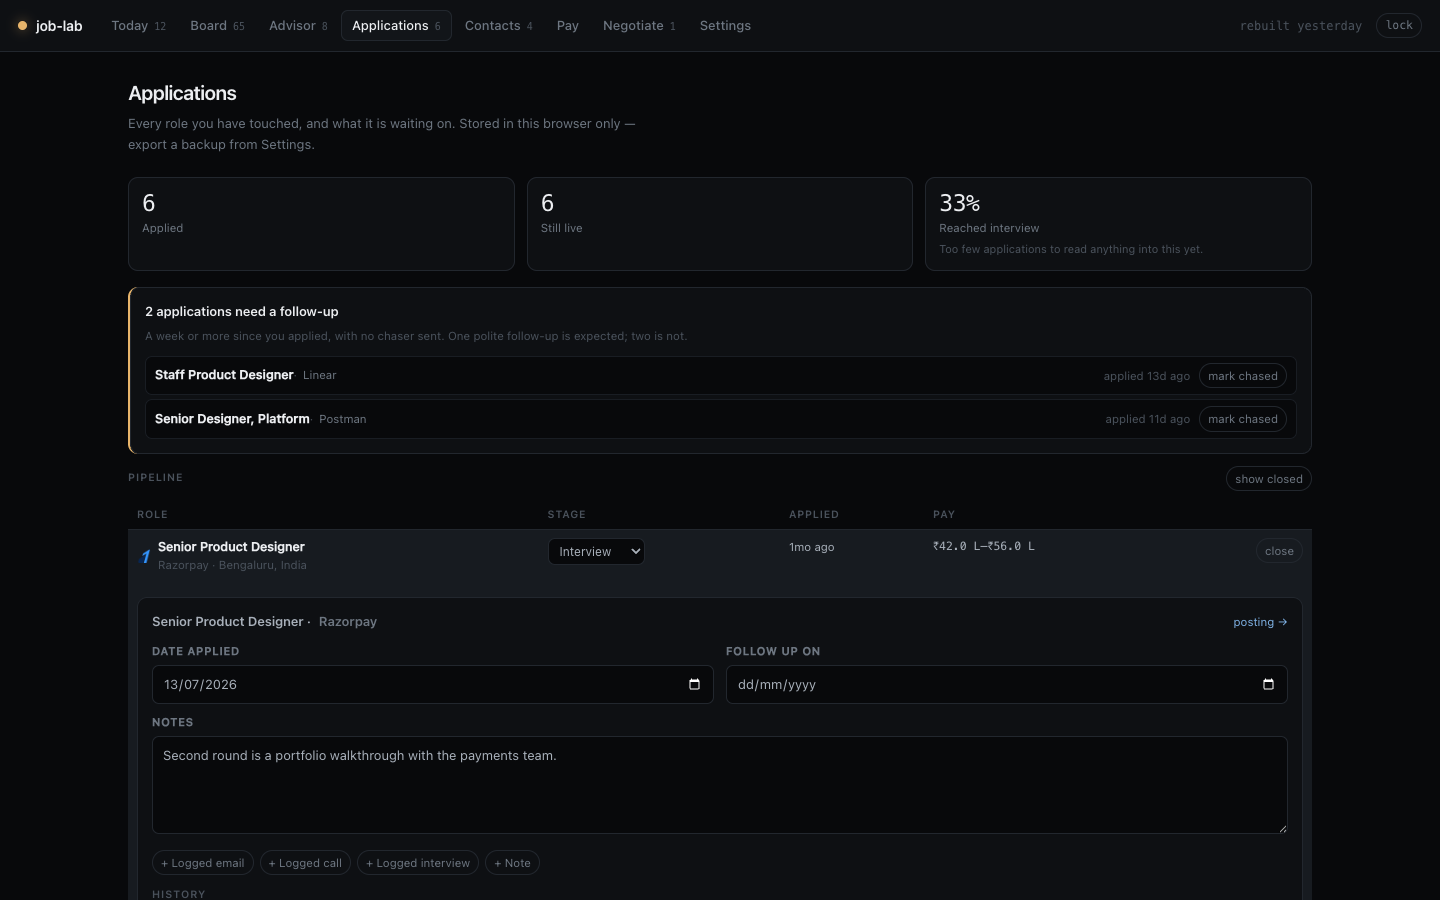
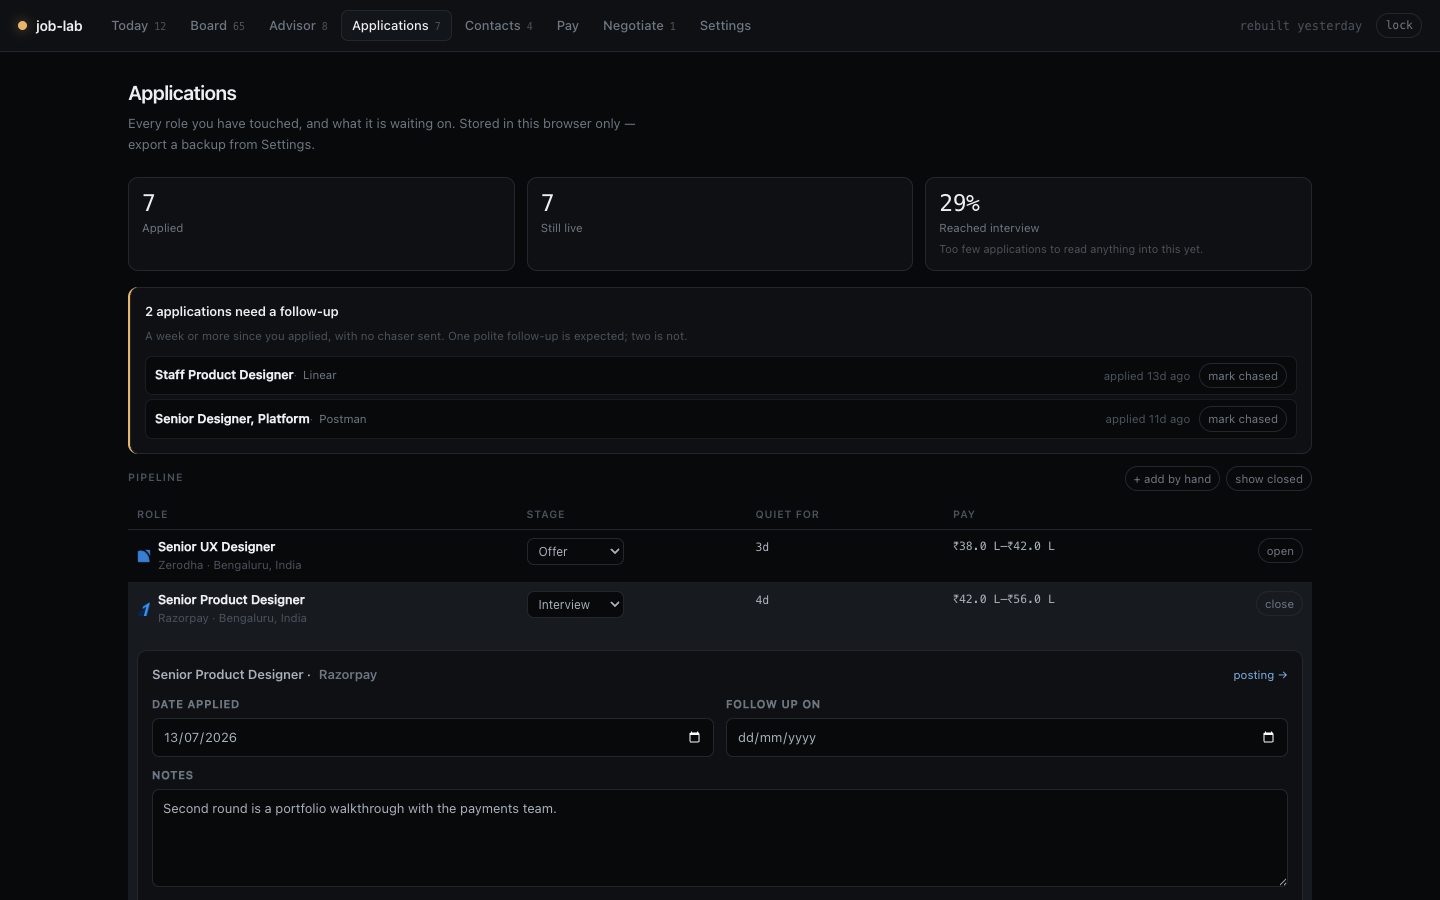
Track the applications the crawler never sees, and show what has gone quiet
Three things a tracker needs that this one did not have.

You could not add an application by hand. Referrals, LinkedIn Easy Apply
and anything a friend forwards you never touch the board, so the tracker
only ever knew half the story, which is worse than knowing none of it.
There is now an "add by hand" form.

The pipeline was in insertion order, which means an offer could sit below
four dead applications. It now sorts by how far along each one is, then by
what moved most recently.

The "Applied" column said how long ago you applied, which stops being the
useful number the moment anything happens. It now shows how long the thing
has been quiet - counting from the last activity of any kind - and turns
amber at a fortnight and red at a month. That is the number that tells you
something is dead when nobody writes to say so.

The detail panel also lists the people you have saved at that company, so
the contacts book and the tracker stop being two unrelated lists.

diff --git a/web/src/components/Tracker.tsx b/web/src/components/Tracker.tsx
@@ -12,17 +12,77 @@ interface Props {
 
 const ACTIVE: Stage[] = ["wishlist", "applied", "phone_screen", "interview", "offer"]
 
-export function Tracker({ applications, onChange, onOpenJob }: Props) {
+/* Furthest along first — an offer at the bottom of the page is a design bug. */
+const RANK: Record<Stage, number> = {
+  offer: 6,
+  interview: 5,
+  phone_screen: 4,
+  applied: 3,
+  wishlist: 2,
+  accepted: 1,
+  rejected: 0,
+  withdrawn: 0,
+  archived: 0,
+}
+const stageRank = (stage: Stage): number => RANK[stage] ?? 0
+
+const lastTouch = (row: Application): number => {
+  const marks = [row.date_applied, row.date_saved, ...row.activities.map((a) => a.date)].filter(
+    Boolean,
+  ) as string[]
+  const times = marks.map((d) => Date.parse(d)).filter((n) => Number.isFinite(n))
+  return times.length ? Math.max(...times) : 0
+}
+
+export function Tracker({ applications, contacts, onChange, onOpenJob }: Props) {
   const [openId, setOpenId] = useState<string | null>(null)
   const [showClosed, setShowClosed] = useState(false)
+  const [adding, setAdding] = useState(false)
+  const [draft, setDraft] = useState({ title: "", company: "", url: "", location: "" })
 
   const rows = useMemo(
     () =>
-      applications.filter((a) =>
-        showClosed ? true : !["rejected", "withdrawn", "archived"].includes(a.stage),
-      ),
+      applications
+        .filter((a) => (showClosed ? true : !["rejected", "withdrawn", "archived"].includes(a.stage)))
+        .slice()
+        // Whatever has moved most recently is what you are actually thinking
+        // about. Insertion order is meaningless after the third application.
+        .sort((a, b) => stageRank(b.stage) - stageRank(a.stage) || lastTouch(b) - lastTouch(a)),
     [applications, showClosed],
   )
+
+  /* How long this has sat where it is. It is the number that tells you a thing
+     is dead without anyone ever writing to say so. */
+  function stalledDays(row: Application): number | null {
+    const marks = [row.date_applied, ...row.activities.map((a) => a.date)].filter(
+      Boolean,
+    ) as string[]
+    if (!marks.length) return null
+    const latest = marks.map((d) => Date.parse(d)).sort((a, b) => b - a)[0]
+    if (!Number.isFinite(latest)) return null
+    return Math.floor((Date.now() - latest) / 86_400_000)
+  }
+
+  function addManual() {
+    if (!draft.title.trim() || !draft.company.trim()) return
+    const row: Application = {
+      id: uid(),
+      job_id: null,
+      title: draft.title.trim(),
+      company: draft.company.trim(),
+      url: draft.url.trim(),
+      location: draft.location.trim(),
+      work_mode: "unknown",
+      stage: "applied",
+      date_saved: today(),
+      date_applied: today(),
+      contact_ids: [],
+      activities: [{ id: uid(), type: "applied", date: today(), title: "Added by hand" }],
+    }
+    onChange([row, ...applications])
+    setDraft({ title: "", company: "", url: "", location: "" })
+    setAdding(false)
+  }
 
   // A follow-up is due when a week has passed since you applied and nothing has
   // moved. That single number is the difference between a tracker and a to-do
@@ -130,6 +190,52 @@ export function Tracker({ applications, onChange, onOpenJob }: Props) {
               ))}
             </div>
 
+            {(() => {
+              const known = contacts.filter(
+                (c) => c.company.toLowerCase().trim() === open.company.toLowerCase().trim(),
+              )
+              return (
+                <>
+                  <div className="kicker">Who you know there</div>
+                  {known.length === 0 ? (
+                    <p className="tiny dimmer" style={{ margin: "0 0 12px" }}>
+                      Nobody saved at {open.company}. An application with a name attached to it is a
+                      different application; the LinkedIn searches on the posting are the fastest
+                      way to find one.
+                    </p>
+                  ) : (
+                    <div className="link-list" style={{ marginBottom: 12 }}>
+                      {known.map((c) => (
+                        <div key={c.id} className="link-row">
+                          <div>
+                            <span style={{ fontWeight: 550 }}>{c.name}</span>
+                            <span className="dim tiny dot-sep">{c.title}</span>
+                          </div>
+                          <div className="row" style={{ gap: 8 }}>
+                            {c.email && (
+                              <a href={`mailto:${c.email}`} className="tiny">
+                                email
+                              </a>
+                            )}
+                            {c.linkedin_url && (
+                              <a
+                                href={c.linkedin_url}
+                                target="_blank"
+                                rel="noopener noreferrer"
+                                className="tiny"
+                              >
+                                LinkedIn
+                              </a>
+                            )}
+                          </div>
+                        </div>
+                      ))}
+                    </div>
+                  )}
+                </>
+              )
+            })()}
+
             {open.activities.length > 0 && (
               <>
                 <div className="kicker">History</div>
@@ -222,10 +328,68 @@ export function Tracker({ applications, onChange, onOpenJob }: Props) {
           <div className="kicker" style={{ margin: 0 }}>
             Pipeline
           </div>
-          <button className="chip" onClick={() => setShowClosed((v) => !v)}>
-            {showClosed ? "hide closed" : "show closed"}
-          </button>
+          <div className="row" style={{ gap: 6 }}>
+            <button className="chip" onClick={() => setAdding((v) => !v)}>
+              {adding ? "cancel" : "+ add by hand"}
+            </button>
+            <button className="chip" onClick={() => setShowClosed((v) => !v)}>
+              {showClosed ? "hide closed" : "show closed"}
+            </button>
+          </div>
         </div>
+
+        {adding && (
+          <div className="card" style={{ marginBottom: 12 }}>
+            <h3 style={{ marginTop: 0 }}>Something you applied to elsewhere</h3>
+            <p className="tiny dimmer" style={{ marginTop: -4 }}>
+              Referrals, LinkedIn Easy Apply, a role a friend sent you — the board will never see
+              these, and a tracker that only knows half your applications is worse than none.
+            </p>
+            <div className="split">
+              <div className="field">
+                <label>Role</label>
+                <input
+                  value={draft.title}
+                  placeholder="Senior Product Designer"
+                  onChange={(e) => setDraft({ ...draft, title: e.target.value })}
+                />
+              </div>
+              <div className="field">
+                <label>Company</label>
+                <input
+                  value={draft.company}
+                  placeholder="Adobe"
+                  onChange={(e) => setDraft({ ...draft, company: e.target.value })}
+                />
+              </div>
+            </div>
+            <div className="split">
+              <div className="field">
+                <label>Link to the posting</label>
+                <input
+                  value={draft.url}
+                  placeholder="https://…"
+                  onChange={(e) => setDraft({ ...draft, url: e.target.value })}
+                />
+              </div>
+              <div className="field">
+                <label>Location</label>
+                <input
+                  value={draft.location}
+                  placeholder="Bengaluru, India"
+                  onChange={(e) => setDraft({ ...draft, location: e.target.value })}
+                />
+              </div>
+            </div>
+            <button
+              className="btn btn-sm"
+              disabled={!draft.title.trim() || !draft.company.trim()}
+              onClick={addManual}
+            >
+              Track it
+            </button>
+          </div>
+        )}
 
         {applications.length === 0 ? (
           <div className="empty">
@@ -239,7 +403,7 @@ export function Tracker({ applications, onChange, onOpenJob }: Props) {
               <tr>
                 <th>Role</th>
                 <th>Stage</th>
-                <th>Applied</th>
+                <th>Quiet for</th>
                 <th>Pay</th>
                 <th />
               </tr>
@@ -294,7 +458,22 @@ export function Tracker({ applications, onChange, onOpenJob }: Props) {
                         ))}
                       </select>
                     </td>
-                    <td className="tiny dimmer">{row.date_applied ? ago(row.date_applied) : "—"}</td>
+                    <td className="tiny">
+                      {(() => {
+                        const quiet = stalledDays(row)
+                        if (quiet === null) return <span className="dimmer">not applied yet</span>
+                        const dead = quiet >= 30 && !["offer", "accepted"].includes(row.stage)
+                        return (
+                          <span
+                            className="mono"
+                            style={{ color: dead ? "var(--bad)" : quiet >= 14 ? "var(--warn)" : undefined }}
+                            title={row.date_applied ? `Applied ${ago(row.date_applied)}` : undefined}
+                          >
+                            {quiet === 0 ? "today" : `${quiet}d`}
+                          </span>
+                        )
+                      })()}
+                    </td>
                     <td className="tiny mono">
                       {row.salary_min ? `${inr(row.salary_min)}–${inr(row.salary_max ?? 0)}` : "—"}
                     </td>
